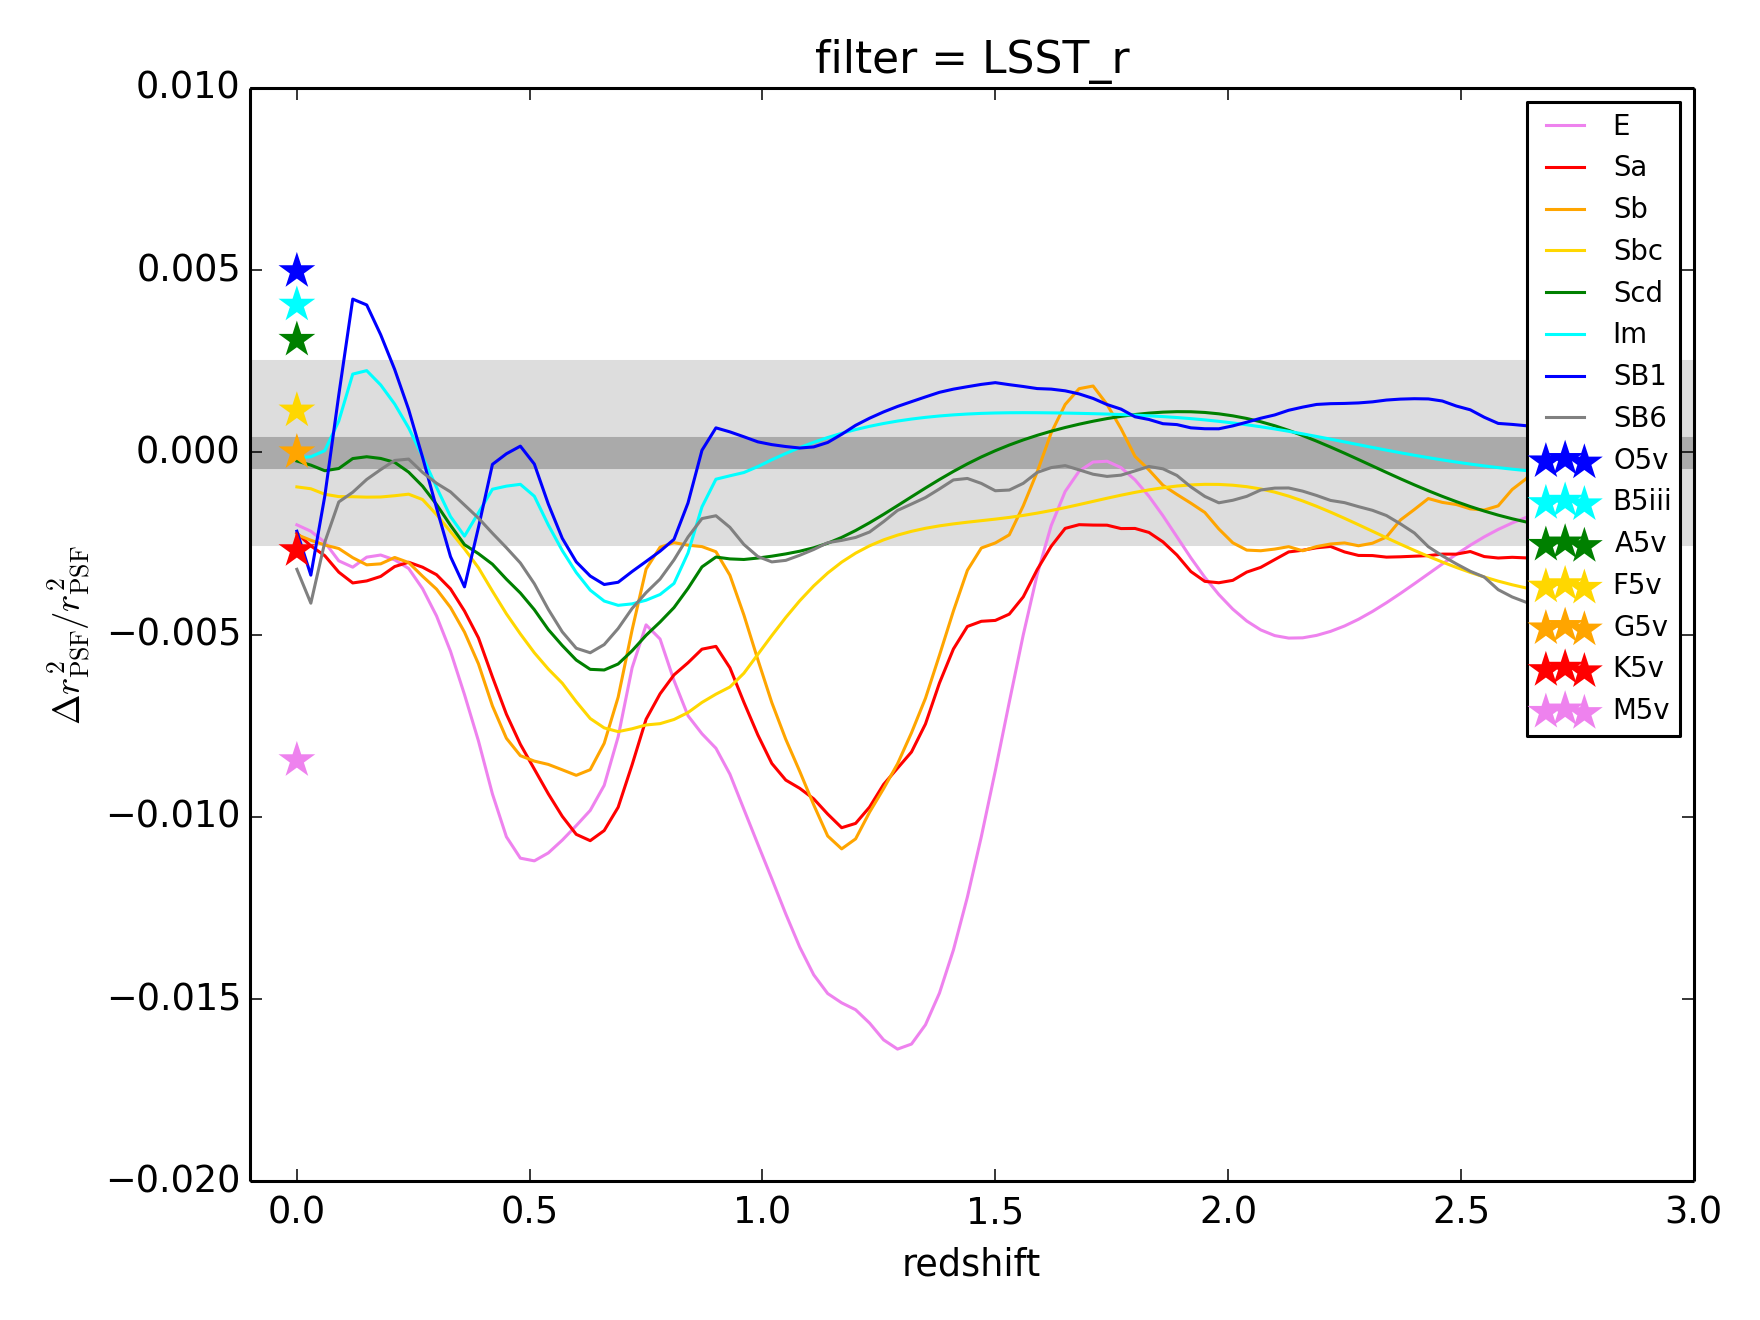
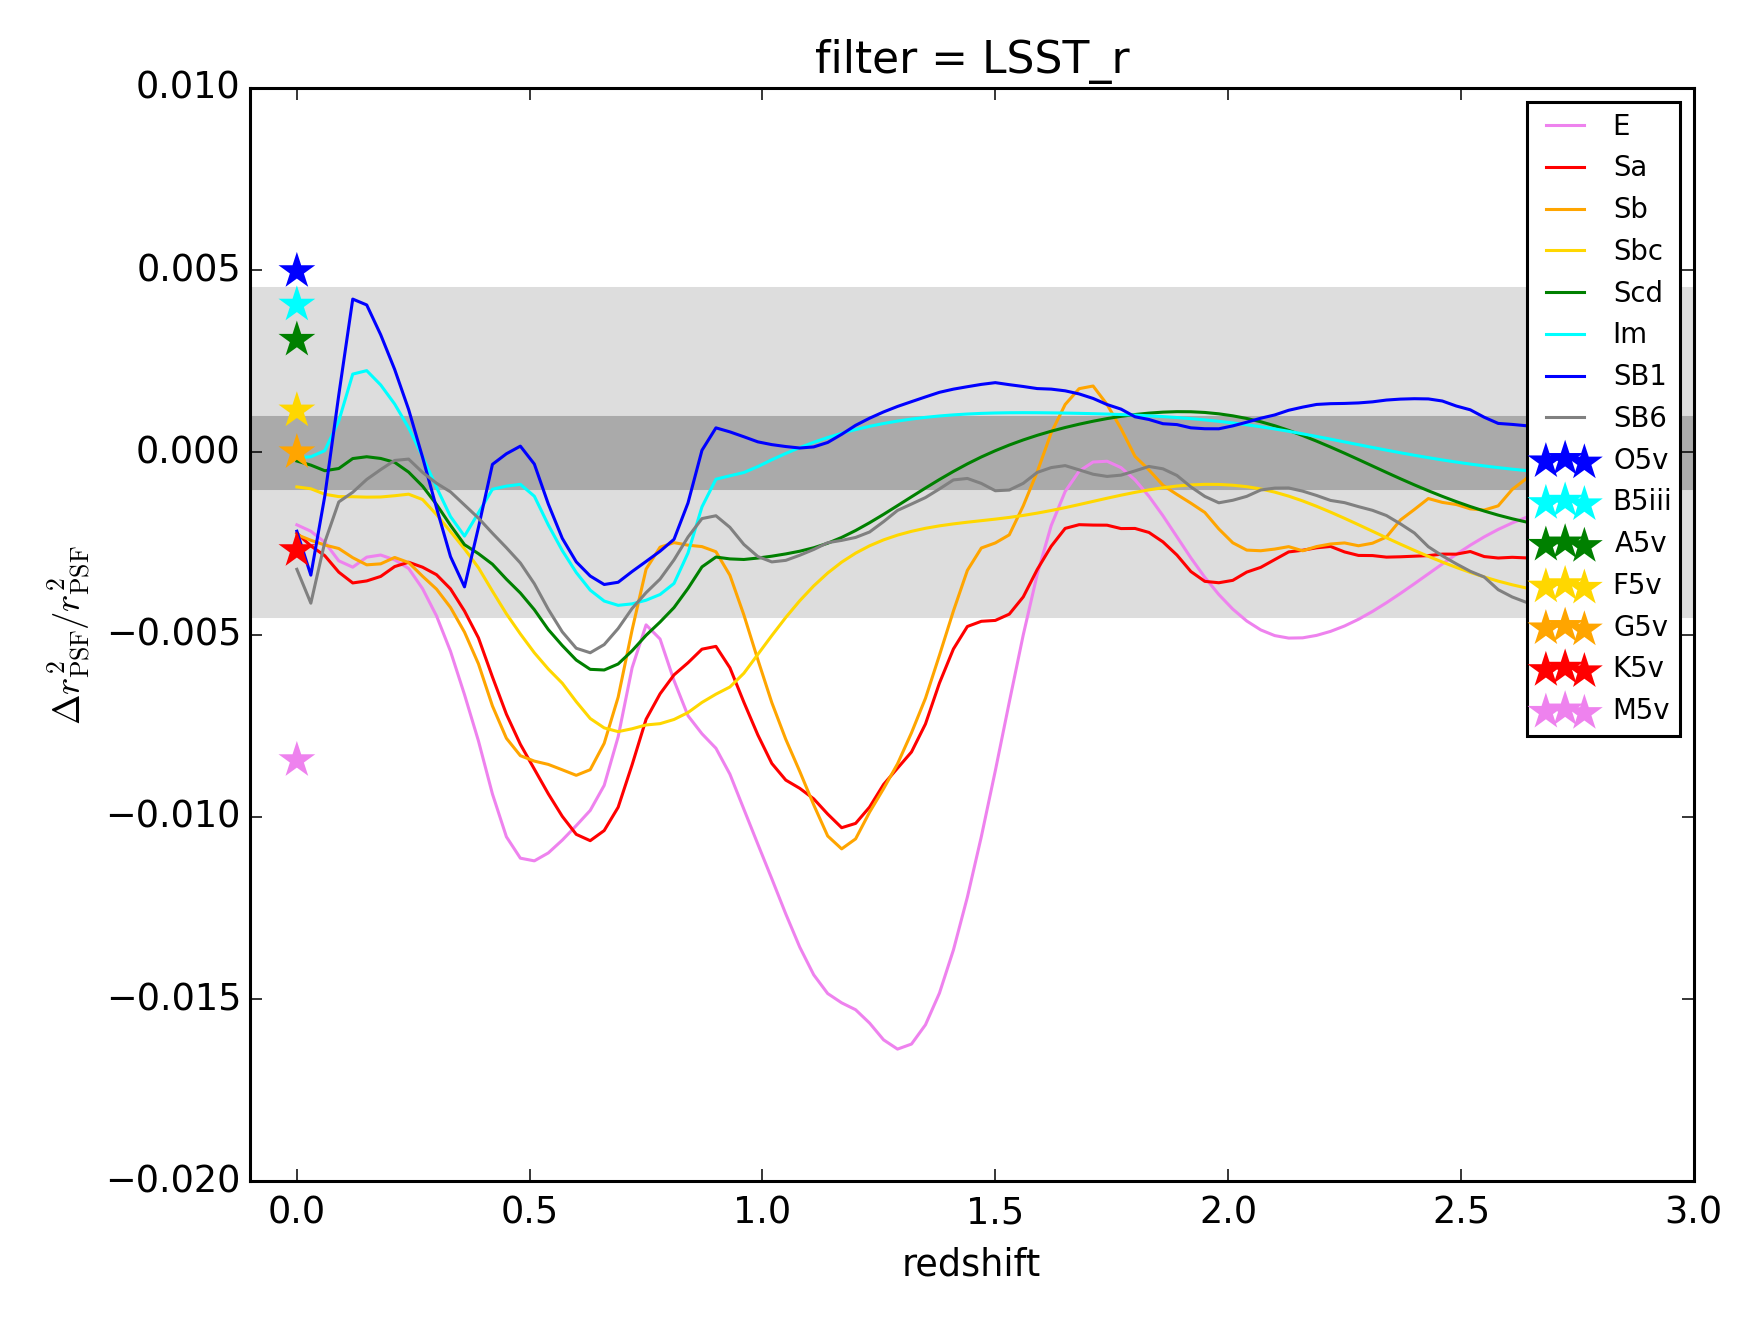
update color correction page

diff --git a/results/ColorCorrect.md b/results/ColorCorrect.md
@@ -21,18 +21,13 @@ output/S_p06_Euclid_350_vs_LSST_r-LSST_i.png
 output/S_m02_LSST_r_vs_LSST_r-LSST_i.png
 {% endhighlight %}
 
-Let's look at the DCR centroid shift plot:
+Let's look at the chromatic seeing plot for LSST $$r$$-band:
 
-<img src="{{site.url}}/img/Rbar_LSST_r_vs_LSST_r-LSST_i.png" width="650">
+<img src="{{site.url}}/img/S_m02_LSST_r_vs_LSST_r-LSST_i.png" width="650">
 
 In the top panel, the same chromatic biases as on the previous page are being plotted on the
 y-axis, but the x-axis has been replaced with the LSST _r_ - _i_ color.  Clearly there is a
-correlation.
-
-Let's look at the DCR second moment shifts now:
-
-<img src="{{site.url}}/img/V_LSST_r_vs_LSST_r-LSST_i.png" width="650">
-
-The correlation here is much weaker, and the residuals are not small enough to meet LSST
-requirements.  Presumably, if we used the information in all six photometric bands we could do
-better still.  We will investigate this possibility shortly.
+correlation.  Using just the _r_ - _i_ color to make a correction, we get the bottom panel.
+The lines and star symbols here are much closer to landing within the requirement box than without
+a correction.  Presumably, if we used all six photometric bands we could do better still.  We will
+investigate this possibility shortly.

diff --git a/results/analytic.md b/results/analytic.md
@@ -52,5 +52,4 @@ Euclid-like $$\mathrm{FWHM} \propto \lambda^{+0.6}$$ relationship for the Euclid
 
 <img src="{{site.url}}/img/S_p06.Euclid_350.png" width="650">
 
-Clearly the biases on PSF shape and size due to chromatic effects exceed the requirements for
-these surveys.
+Except for PSF centroid (first moment) shifts, each of the above chromatic PSF shape or size biases either saturates or exceeds the systematic error budget of DES, LSST, and Euclid.
